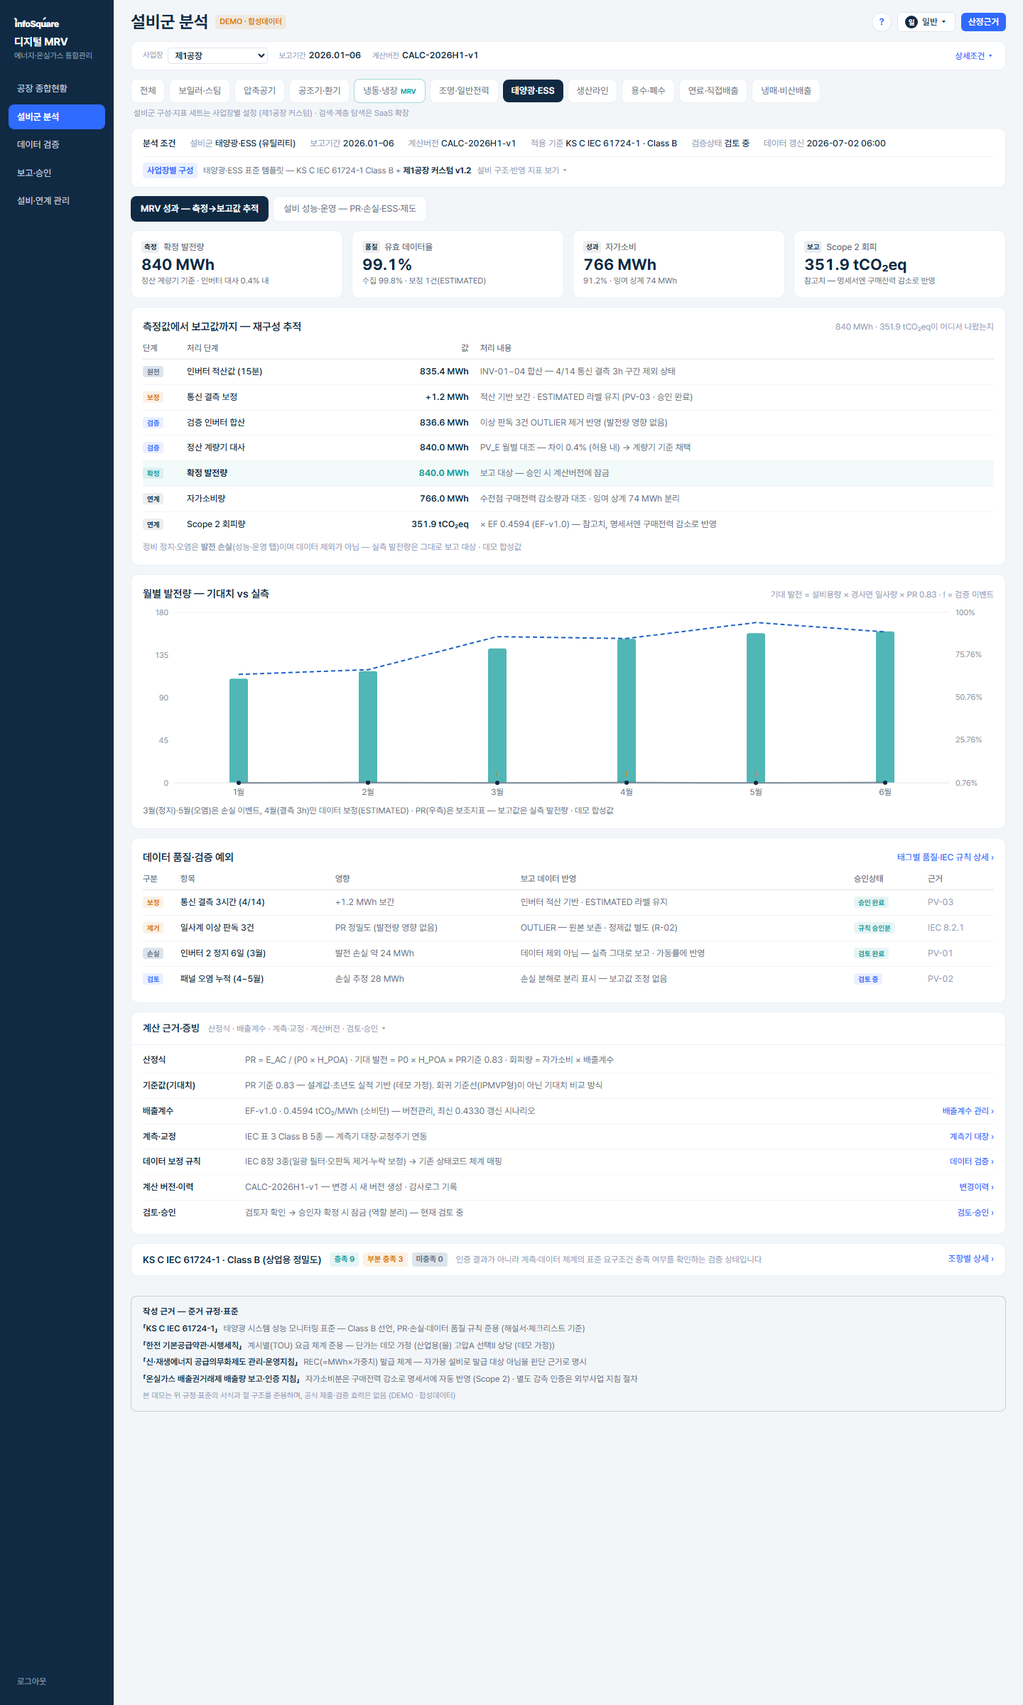
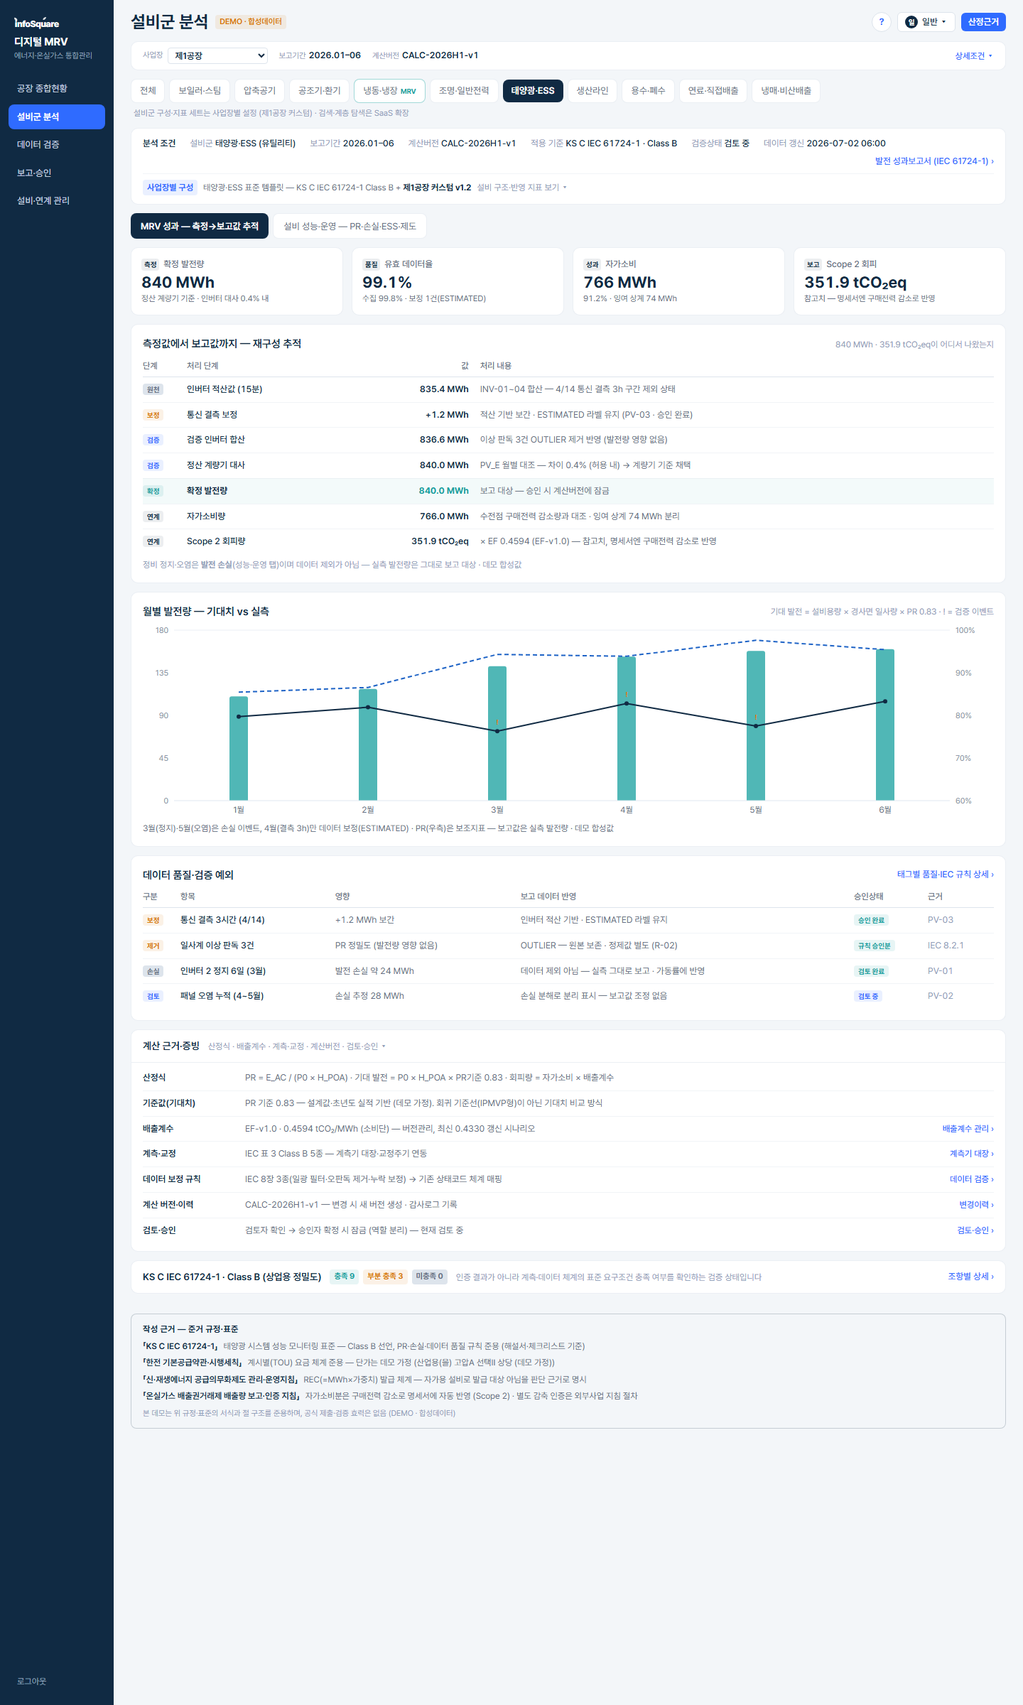
발전 성과보고서(IEC 61724-1)를 보고·승인 문서에 편입 + 월별 PR 백분율 버그 수정
- 프로젝트 관리에 기본 프로젝트 GEN-2026-01(태양광·ESS 발전 성과, builtin) 추가 —
  기존 localStorage 목록에 builtin 누락 시 자동 보충하는 마이그레이션 포함
- 보고·승인 › MRV 성과보고서 드롭다운에서 태양광 선택 시 발전 성과보고서 렌더:
  절감 프로젝트(회귀 기준선·M&V 계획서)가 아닌 발전 성과 보고임을 안내 스트립에 명시
- PvReportDoc 신설 — A4 인쇄 문서 9절: 개요(자가용·산정 방식·사업장별 구성) / 계측 구성(표 3
  Class B) / 데이터 품질(태그별·IEC 8장) / 발전 성과(월별 PR) / 측정값→보고값 재구성 /
  손실 분석(부속서 C) / ESS 운전 성과(TOU) / 온실가스·제도 연계(회피 참고치·REC 미대상) /
  예외·검증 상태 — 절별 원천 화면 링크, DEMO 워터마크·로고 미표기, 작성 근거 4종
- 태양광 상세 분석 조건에 "발전 성과보고서 ›" 딥링크(#/report/pv) 추가 — 양방향 연결
- 버그 수정: pvMonthly PR이 백분율이 아닌 분수(0.8)로 계산되던 오류 → 79.7~83.3%로 정정
  (3월 76.3 · 5월 77.5 · 6월 83.3 — 이슈 서사와 정합), 월별 차트 우측축 정상화
- 검증: tsc·빌드·엔진 테스트 통과, 문서 렌더·원천 링크·드롭다운 전환·마이그레이션 실측,
  375px 가로 오버플로 0, 스크린샷 26 갱신·28 추가

diff --git a/src/screens/PvReportDoc.tsx b/src/screens/PvReportDoc.tsx
@@ -1,0 +1,234 @@
+import {
+  PV_SPEC,
+  ESS_SPEC,
+  TOU,
+  pvMonthly,
+  pvH1,
+  pvPrH1,
+  lossWaterfall,
+  essH1,
+  essSavingKrw,
+  pvGhg,
+  pvMeters,
+  iecSummary,
+  pvTagQuality,
+  pvRecon,
+  pvExceptions,
+  pvBiz,
+  pvSiteConfig,
+} from "../lib/pvData";
+import LegalBasis from "../components/LegalBasis";
+
+const fmt = (n: number, d = 0) =>
+  n.toLocaleString("ko-KR", { minimumFractionDigits: d, maximumFractionDigits: d });
+
+/* 문서용 절 이동 대상 — 이 절 데이터를 관리하는 화면 */
+export type PvDocNav = "equipment" | "verify" | "master";
+
+/* ---------- 문서 서브컴포넌트 (MrvReportPreview와 동일 스타일) ---------- */
+function H({ n, t, form, src, onNav }: {
+  n: string;
+  t: string;
+  form?: string;
+  src?: { go: PvDocNav; label: string };
+  onNav?: (go: PvDocNav) => void;
+}) {
+  return (
+    <h3 id={`pvsec-${n}`} className="mt-6 mb-2 flex flex-wrap items-baseline gap-x-2 scroll-mt-20 text-[15px] font-bold">
+      <span>
+        {n}. {t} {form && <span className="text-[11px] font-normal text-slate-400">{form}</span>}
+      </span>
+      {src && onNav && (
+        <button
+          onClick={() => onNav(src.go)}
+          className="no-print ml-auto text-[11px] font-normal whitespace-nowrap text-slate-400 underline-offset-2 transition-colors hover:text-accent hover:underline"
+          title="이 절의 데이터를 관리하는 화면으로 이동"
+        >
+          원천: {src.label} ›
+        </button>
+      )}
+    </h3>
+  );
+}
+function KV({ rows }: { rows: Array<[string, string]> }) {
+  return (
+    <table className="tnum w-full border-t border-navy text-[12.5px]">
+      <tbody>
+        {rows.map(([k, v]) => (
+          <tr key={k} className="border-b border-line">
+            <td className="w-44 bg-surface/70 px-2.5 py-1.5 text-body">{k}</td>
+            <td className="px-2.5 py-1.5">{v}</td>
+          </tr>
+        ))}
+      </tbody>
+    </table>
+  );
+}
+function T({ head, rows, right }: { head: string[]; rows: Array<Array<string | number>>; right?: number[] }) {
+  return (
+    <table className="tnum w-full border-t border-navy text-[12.5px]">
+      <thead>
+        <tr className="border-b border-line bg-surface/70 text-body">
+          {head.map((h, i) => (
+            <th key={h} className={`px-2.5 py-1.5 font-medium ${right?.includes(i) ? "text-right" : "text-left"}`}>{h}</th>
+          ))}
+        </tr>
+      </thead>
+      <tbody>
+        {rows.map((r, ri) => (
+          <tr key={ri} className="border-b border-line">
+            {r.map((c, ci) => (
+              <td key={ci} className={`px-2.5 py-1.5 ${right?.includes(ci) ? "text-right" : ""}`}>{c}</td>
+            ))}
+          </tr>
+        ))}
+      </tbody>
+    </table>
+  );
+}
+
+/* 발전 성과보고서 — KS C IEC 61724-1(태양광 성능 모니터링) 기반 A4 문서.
+   냉동·냉장 M&V 보고서(회귀 기준선)와 산정 패러다임이 다름: 일사량 기반 기대치(PR) 비교 + 계량기 대사 확정.
+   인쇄용 보고서 문서에는 로고를 넣지 않음 (CLAUDE.md 브랜딩 규칙). */
+export default function PvReportDoc({ onNav }: { onNav?: (go: PvDocNav) => void }) {
+  return (
+    <>
+      <div className="no-print flex shrink-0 flex-wrap items-center justify-between gap-2">
+        <span className="text-[13px] text-body">
+          KS C IEC 61724-1(PV 성능 모니터링) 기반 발전 성과보고서 — 검토 중 · 승인 전 초안
+        </span>
+        <button onClick={() => window.print()} className="rounded-lg bg-accent px-3 py-1.5 text-[12.5px] font-semibold text-white hover:opacity-90">
+          PDF 인쇄·저장
+        </button>
+      </div>
+
+      <div className="print-root mx-auto w-full max-w-[800px] rounded-[10px] border border-line/60 bg-white p-10 text-[13px] leading-relaxed text-navy shadow-sm">
+        {/* 표지 */}
+        <div className="relative border-b-2 border-navy pb-6 text-center">
+          <div className="pointer-events-none absolute inset-0 flex items-center justify-center">
+            <span className="rotate-[-18deg] text-[38px] font-black tracking-widest text-review/10 select-none">
+              DEMO · 합성데이터
+            </span>
+          </div>
+          <div className="text-[12px] tracking-widest text-slate-400">KS C IEC 61724-1 성능 모니터링 체계 준용 (데모 요약본)</div>
+          <div className="mt-2 text-[24px] font-bold">발전 성과보고서</div>
+          <div className="mt-1 text-[14px]">태양광·ESS 발전 성과 · 제1공장</div>
+          <div className="tnum mt-3 text-[12px] text-body">프로젝트 GEN-2026-01 · CALC-2026H1-v1 · 보고기간 2026.01–06 · 상태 검토 중</div>
+          <div className="mt-2 text-[11.5px] text-review">
+            본 자료는 데모용 합성데이터로 작성된 테스트 출력물이며, 공식 성과 보고 또는 제3자 검증 자료로 사용할 수 없습니다.
+          </div>
+        </div>
+
+        <LegalBasis
+          items={[
+            ["KS C IEC 61724-1", "태양광 시스템 성능 모니터링 국제표준 — Class B 선언 · PR 산정(10장)·데이터 품질(8장)·손실 분해(부속서 C) 준용"],
+            ["한전 기본공급약관·시행세칙", "계시별(TOU) 요금·잉여 상계 처리 준거 — 단가는 데모 가정"],
+            ["신·재생에너지 공급의무화제도 관리·운영지침", "REC 발급 체계 — 자가용 설비로 발급 대상 아님을 판단 근거로 명시"],
+            ["온실가스 배출권거래제 배출량 보고·인증 지침", "자가소비분의 Scope 2 반영(구매전력 감소) 및 외부사업 별도 절차 준거"],
+          ]}
+        />
+
+        <H n="1" t="개요" form="사업장·설비·보고기간·사업 형태" src={{ go: "master", label: "설비·연계 관리" }} onNav={onNav} />
+        <KV
+          rows={[
+            ["사업장", "제1공장 (유틸리티 영역)"],
+            ["대상 설비", `태양광 ${fmt(PV_SPEC.arrayKwp)} kWp (인버터 ${PV_SPEC.inverters}대) + ESS ${fmt(ESS_SPEC.battKwh)} kWh / PCS ${ESS_SPEC.pcsKw} kW`],
+            ["보고기간", "2026-01-01 ~ 2026-06-30 (상반기)"],
+            ["사업 형태", pvBiz.type],
+            ["산정 방식", "일사량 기반 기대 발전(PR 0.83) 비교 + 정산 계량기 대사 확정 — 회귀 기준선(IPMVP형) 아님"],
+            ["적용 구성", `${pvSiteConfig.template} + ${pvSiteConfig.custom} (사업장별 설정)`],
+            ["계산버전 · 검증상태", "CALC-2026H1-v1 · 검토 중"],
+          ]}
+        />
+
+        <H n="2" t="계측 구성" form="IEC 61724-1 표 3 — Class B 필수 변수" src={{ go: "master", label: "계측기 대장" }} onNav={onNav} />
+        <T
+          head={["계측기", "측정 변수", "정확도", "주기", "상태"]}
+          rows={pvMeters.map((m) => [m.meter, m.variable, m.spec, m.cycle, m.state])}
+        />
+        <p className="mt-1.5 text-[12px] text-body">
+          모니터링 등급 {PV_SPEC.monitorClass} 선언 — 등급별 요구 정밀도·필수 변수를 적용. 설비 사양(온도계수 {PV_SPEC.tempCoefPct}%/℃ ·
+          연 열화 {PV_SPEC.degradePctYr}%)은 데모 가정.
+        </p>
+
+        <H n="3" t="데이터 품질" form="IEC 61724-1 8장 — 필터·판독 제거·누락 처리" src={{ go: "verify", label: "데이터 검증" }} onNav={onNav} />
+        <T
+          head={["태그", "변수", "수집률", "정상률", "추정률", "비고"]}
+          right={[2, 3, 4]}
+          rows={pvTagQuality.map((t) => [t.tag, t.desc, `${t.collectPct}%`, `${t.validPct}%`, t.estPct > 0 ? `${t.estPct}%` : "—", t.note])}
+        />
+        <p className="mt-1.5 text-[12px] text-body">
+          IEC 8장 품질 규칙 3종(일광 시간 필터·잘못된 판독값 제거·누락 데이터 처리)을 기존 상태코드 체계(VALID·OUTLIER·ESTIMATED)에
+          매핑해 적용 — 원본값은 수정 없이 보존하고 정제·보정값은 라벨로 구분.
+        </p>
+
+        <H n="4" t="발전 성과" form="PR = E_AC / (P0 × H_POA) · IEC 61724-1 10장" src={{ go: "equipment", label: "태양광·ESS 상세" }} onNav={onNav} />
+        <T
+          head={["월", "경사면 일사량 (kWh/m²)", "기대 발전 (MWh)", "실측 발전 (MWh)", "PR (%)", "비고"]}
+          right={[1, 2, 3, 4]}
+          rows={[
+            ...pvMonthly.map((m) => [m.label, fmt(m.poaKwhM2), fmt(m.expectMWh, 1), fmt(m.actMWh), m.pr, m.event ?? "—"]),
+            ["합계", fmt(pvH1.poaSum), fmt(pvMonthly.reduce((s, m) => s + m.expectMWh, 0), 1), fmt(pvH1.genMWh), `${pvPrH1} (기간)`, `이용률 ${pvH1.capacityFactorPct}%`],
+          ]}
+        />
+        <p className="mt-1.5 text-[12px] text-body">
+          기간 성능비(PR) {pvPrH1}% — 기준 0.83 대비. 3월(인버터 정지)·5월(패널 오염) 하락 후 세척으로 회복. PR은 성능 보조지표이며
+          보고값은 실측 발전량(5절 재구성)임.
+        </p>
+
+        <H n="5" t="측정값에서 보고값까지 — 재구성" form="확정 발전량·자가소비·회피량의 유도" src={{ go: "equipment", label: "태양광·ESS 상세" }} onNav={onNav} />
+        <T
+          head={["단계", "처리 단계", "값", "처리 내용"]}
+          right={[2]}
+          rows={pvRecon.map((r) => [r.kind, r.step, r.value, r.note])}
+        />
+        <p className="mt-1.5 text-[12px] text-body">
+          정비 정지·오염은 발전 손실(6절)이며 데이터 제외가 아님 — 실측 발전량은 그대로 보고 대상. 확정 발전량은 정산 계량기 기준으로
+          채택하고 인버터 적산과 월별 대사(차이 0.4% 이내)로 검증함.
+        </p>
+
+        <H n="6" t="손실 분석" form="IEC 61724-1 부속서 C 준용 (데모 분해)" src={{ go: "equipment", label: "태양광·ESS 상세" }} onNav={onNav} />
+        <T
+          head={["구분", "MWh", "내용"]}
+          right={[1]}
+          rows={lossWaterfall.map((s) => [s.name, s.mwh < 0 ? `−${fmt(-s.mwh)}` : fmt(s.mwh), s.note ?? "—"])}
+        />
+
+        <H n="7" t="ESS 운전 성과" form="TOU 차익·피크 기여 (한전 약관 체계 준용)" src={{ go: "equipment", label: "태양광·ESS 상세" }} onNav={onNav} />
+        <KV
+          rows={[
+            ["운전 정책", ESS_SPEC.policy],
+            ["충전 / 방전", `${fmt(essH1.chargeMWh)} MWh / ${fmt(essH1.dischargeMWh)} MWh · 왕복효율 ${essH1.roundTripPct}%`],
+            ["피크 기여 · 사이클", `−${fmt(essH1.peakCutKw)} kW (하계) · ${essH1.cycleCount}회 · SOH ${essH1.sohPct}%`],
+            ["요금 차익 (데모)", `${fmt(essSavingKrw / 1e4)}만원 — 계시별 단가 데모 가정 (${TOU.contract})`],
+          ]}
+        />
+
+        <H n="8" t="온실가스·제도 연계" form="Scope 2 회피 (참고치) · REC 판단" src={{ go: "master", label: "배출계수 관리" }} onNav={onNav} />
+        <KV
+          rows={[
+            ["Scope 2 회피량", `자가소비 ${fmt(pvH1.selfMWh)} MWh × ${pvGhg.efCurrent} = ${pvGhg.avoided} tCO₂eq (참고치)`],
+            ["명세서 반영", "구매전력 감소로 자동 반영 — 회피량을 확정 배출량과 합산하지 않음"],
+            ["배출계수", `EF-v1.0 · ${pvGhg.efCurrent} tCO₂/MWh — 최신 계수(${pvGhg.efLatest}) 갱신 시 ${pvGhg.avoidedLatest} t (버전관리)`],
+            ["REC", "발급 대상 아님 — 자가용 설비 (RPS 지침 기준) · 잉여 74 MWh는 상계 처리"],
+            ["별도 감축 인증", "외부사업(KOC) 지침 절차 필요 — 본 보고서는 인증 신청 자료가 아님"],
+          ]}
+        />
+
+        <H n="9" t="예외·조치 및 검증 상태" form="사건별 보고 데이터 반영 · IEC 정합 요약" src={{ go: "verify", label: "데이터 검증" }} onNav={onNav} />
+        <T
+          head={["구분", "항목", "영향", "보고 데이터 반영", "승인상태"]}
+          rows={pvExceptions.map((e) => [e.type, e.item, e.impact, e.handling, e.approval])}
+        />
+        <p className="mt-1.5 text-[12px] text-body">
+          KS C IEC 61724-1 정합: 충족 {iecSummary.ok} · 부분 충족 {iecSummary.partial} · 미충족 0 — 인증 결과가 아니라 계측·데이터
+          체계의 표준 요구조건 충족 여부를 확인하는 검증 상태임. 본 보고서는 검토자 확인 → 승인자 확정(역할 분리) 후 확정본으로 잠금됨.
+        </p>
+
+        <div className="mt-8 border-t border-navy pt-3 text-center text-[11.5px] text-review">
+          DEMO · 합성데이터 — 본 문서는 KS C IEC 61724-1 성능 모니터링 체계를 준용한 테스트 출력물이며 공식 제출·제3자 검증 자료로 사용할 수 없습니다.
+        </div>
+      </div>
+    </>
+  );
+}

diff --git a/src/screens/Reporting.tsx b/src/screens/Reporting.tsx
@@ -5,6 +5,7 @@ import { useUI, deriveVerify, activeEf } from "../store";
 import ContextBar, { TopActions } from "../components/ContextBar";
 import InventoryReport from "./InventoryReport";
 import MrvReportPreview from "./MrvReportPreview";
+import PvReportDoc, { type PvDocNav } from "./PvReportDoc";
 import EsgDataPack from "./EsgDataPack";
 import FrameworkPanel from "./StandardsCompliance";
 import type { ComplyNav } from "../lib/standardsData";
@@ -82,12 +83,12 @@ export default function Reporting() {
   // 보고 범위: 냉수플랜트 MRV 보고서 | 공장 종합 명세서 (온실가스·에너지 명세서 작성 기능)
   const [rptScope, setRptScope] = useState<string>(() => {
     const seg = window.location.hash.split("/")[2];
-    return seg === "inventory" ? "inventory" : seg === "boiler" ? "boiler" : seg === "esg" ? "esg" : "chiller";
+    return seg === "inventory" ? "inventory" : seg === "boiler" ? "boiler" : seg === "esg" ? "esg" : seg === "pv" ? "pv" : "chiller";
   });
   const [copied, setCopied] = useState(false);
   // 승인 실수 방지: 첫 탭에서 무장(arm), 두 번째 탭에서 확정 (모바일 지시문 §8.7)
   const [armId, setArmId] = useState<string | null>(null);
-  const { role, reviewStates, markReviewed, approve, audit, resetDemoStates, openEvidence, setMenu, projects, planStatus } =
+  const { role, reviewStates, markReviewed, approve, audit, resetDemoStates, openEvidence, setMenu, setEquipGroup, projects, planStatus } =
     useUI();
   /* 보고서 생성 대상 프로젝트만 목록에 노출 (설비·연계 관리에서 대상 선택) */
   const reportProjects = projects.filter((p) => p.report);
@@ -195,7 +196,7 @@ export default function Reporting() {
             ] as Array<[string, string, string]>
           ).map(([key, label, sub]) => {
             const on =
-              key === "mrv" ? rptScope === "chiller" || rptScope === "boiler" : rptScope === key;
+              key === "mrv" ? rptScope === "chiller" || rptScope === "boiler" || rptScope === "pv" : rptScope === key;
             return (
               <button
                 key={key}
@@ -352,6 +353,35 @@ export default function Reporting() {
         </>
       )}
 
+      {/* ---------- 태양광·ESS 발전 성과보고서 (IEC 61724-1) — 산정 패러다임이 다른 두 번째 실보고서 ---------- */}
+      {rptScope === "pv" && (() => {
+        const onPvNav = (go: PvDocNav) => {
+          if (go === "equipment") { setEquipGroup("pv"); window.location.hash = "#/equipment/pv"; setMenu("equipment"); return; }
+          if (go === "verify") { window.location.hash = "#/verify/pv"; setMenu("verify"); return; }
+          setMenu("master");
+        };
+        return (
+          <>
+            <section className="no-print rounded-[10px] border border-line/60 bg-white p-4">
+              <div className="flex flex-wrap items-center gap-x-4 gap-y-1.5 text-[12.5px]">
+                <span className="text-[15px] font-semibold text-navy">태양광·ESS 발전 성과 (GEN-2026-01)</span>
+                <span className="rounded bg-accent/10 px-1.5 py-0.5 text-[10px] font-bold text-accent">IEC 61724-1</span>
+                <span className="rounded bg-accent/10 px-2 py-0.5 text-[11px] font-bold text-accent">검토 중</span>
+              </div>
+              <div className="mt-1.5 text-[12.5px] leading-relaxed text-body">
+                절감 프로젝트(회귀 기준선·M&V 계획서)가 아닌 <b className="text-navy">발전 성과 보고</b> — 일사량 기반
+                기대치(PR) 비교와 정산 계량기 대사로 확정하며, 문서는 발전 성과보고서 1종입니다. 산정 상세와 검증 예외는{" "}
+                <button onClick={() => onPvNav("equipment")} className="font-medium text-accent hover:underline">태양광·ESS 상세 ›</button>
+                {" · "}
+                <button onClick={() => onPvNav("verify")} className="font-medium text-accent hover:underline">데이터 검증 ›</button>
+                에서 관리합니다.
+              </div>
+            </section>
+            <PvReportDoc onNav={onPvNav} />
+          </>
+        );
+      })()}
+
       {/* ---------- 후보 단계 프로젝트 (신규 등록) — 보고서 생성 전 준비 안내 ---------- */}
       {scopeProject && !scopeProject.builtin && (
         <section className="rounded-[10px] border border-line/60 bg-white p-4">
@@ -372,7 +402,7 @@ export default function Reporting() {
           </div>
         </section>
       )}
-      {!scopeProject && !["chiller", "boiler", "inventory", "esg"].includes(rptScope) && (
+      {!scopeProject && !["chiller", "boiler", "pv", "inventory", "esg"].includes(rptScope) && (
         <section className="rounded-[10px] border border-line/60 bg-white p-4 text-[13px] text-body">
           선택한 프로젝트가 목록에서 제외되었거나 삭제되었습니다 — 위 드롭다운에서 다른 프로젝트를 선택하세요.
         </section>

diff --git a/src/store.ts b/src/store.ts
@@ -188,13 +188,19 @@ export interface ProjectRec {
   group: string; // 대상 설비군
   stage: "검증 중" | "개시 전" | "후보";
   report: boolean; // 보고서 생성 대상 여부
-  builtin?: "chiller" | "boiler"; // 상세 구현이 있는 기본 프로젝트 (삭제 불가)
+  builtin?: "chiller" | "boiler" | "pv"; // 상세 구현이 있는 기본 프로젝트 (삭제 불가)
 }
 const defaultProjects = (): ProjectRec[] => [
   { id: "MVP-2026-01", name: "중앙 냉수플랜트 효율개선", group: "냉동·냉장", stage: "검증 중", report: true, builtin: "chiller" },
+  { id: "GEN-2026-01", name: "태양광·ESS 발전 성과", group: "태양광·ESS", stage: "검증 중", report: true, builtin: "pv" },
   { id: "MVP-2026-02", name: "보일러 폐열회수", group: "보일러·스팀", stage: "개시 전", report: true, builtin: "boiler" },
   { id: "CAND-01", name: "압축공기 누설개선", group: "압축공기", stage: "후보", report: false },
 ];
+/* 저장된 목록에 기본(builtin) 프로젝트가 빠져 있으면 보충 — 기능 추가 시 기존 localStorage 마이그레이션 */
+const withBuiltinProjects = (list: ProjectRec[]): ProjectRec[] => {
+  const missing = defaultProjects().filter((d) => d.builtin && !list.some((p) => p.builtin === d.builtin));
+  return missing.length ? [...list, ...missing] : list;
+};
 
 // 상세 화면에서 돌아와도 보고기간·선택 필터 유지 (지시문 §9)
 export const useUI = create<UIState>((set, get) => ({
@@ -356,7 +362,7 @@ export const useUI = create<UIState>((set, get) => ({
     }
   },
   // 프로젝트 관리 — 일반 역할은 조회만 (기준정보 수정 권한과 동일 정책)
-  projects: loadJson<ProjectRec[]>("mrv-projects", defaultProjects()),
+  projects: withBuiltinProjects(loadJson<ProjectRec[]>("mrv-projects", defaultProjects())),
   addProject: (name, group) => {
     const { role, projects, logAudit } = get();
     if (role === "일반" || !name.trim()) return;

diff --git a/src/screens/PvEssDetail.tsx b/src/screens/PvEssDetail.tsx
@@ -119,6 +119,12 @@ export default function PvEssDetail() {
       <section className="rounded-[10px] border border-line/60 bg-white px-4 py-3">
         <div className="flex flex-wrap items-center gap-x-5 gap-y-1.5 text-[12.5px]">
           <span className="font-semibold text-navy">분석 조건</span>
+          <button
+            onClick={() => nav("report", "#/report/pv")}
+            className="order-last ml-auto text-[12.5px] font-medium whitespace-nowrap text-accent hover:underline"
+          >
+            발전 성과보고서 (IEC 61724-1) ›
+          </button>
           {(
             [
               ["설비군", "태양광·ESS (유틸리티)"],

diff --git a/src/lib/pvData.ts b/src/lib/pvData.ts
@@ -44,7 +44,7 @@ const mkM = (label: string, poa: number, act: number, event?: string): PvMonth =
   poaKwhM2: poa,
   expectMWh: Math.round(((PV_SPEC.arrayKwp * poa * PR_REF) / 1000) * 10) / 10,
   actMWh: act,
-  pr: Math.round((act * 1000 * 1000) / (PV_SPEC.arrayKwp * poa) / 10) / 100, // %
+  pr: Math.round(((act * 1000) / (PV_SPEC.arrayKwp * poa)) * 1000) / 10, // % (E_AC / (P0×H_POA))
   event,
 });
 export const pvMonthly: PvMonth[] = [
